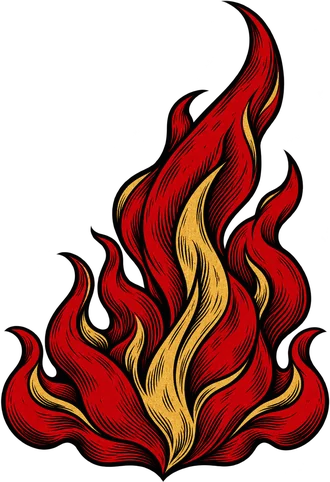
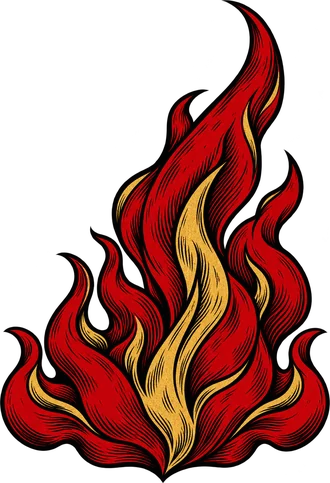
Infernal aces trimmed to their artwork and fitted to fill the card

diff --git a/index.html b/index.html
@@ -16,9 +16,9 @@
   <meta property="og:image" content="share.jpg">
   <meta name="twitter:card" content="summary_large_image">
   <link rel="preload" href="share.jpg" as="image" fetchpriority="low">
-  <link rel="stylesheet" href="./gw.css?v=161">
-  <link rel="stylesheet" href="./oh.css?v=161">
-  <link rel="stylesheet" href="./bv-more.css?v=161">
+  <link rel="stylesheet" href="./gw.css?v=162">
+  <link rel="stylesheet" href="./oh.css?v=162">
+  <link rel="stylesheet" href="./bv-more.css?v=162">
 </head>
 <body>
 <!-- The Infernal suits (Look & feel): drawn with <use href="#s-flame"> etc. -->
@@ -111,7 +111,7 @@
 
 <!-- SPLASH -->
 <div id="splash" role="button" tabindex="0" aria-label="Click to start">
-  <img src="logo-ohhell.webp?v=161" alt="Oh Hell! Extended" class="splash-title">
+  <img src="logo-ohhell.webp?v=162" alt="Oh Hell! Extended" class="splash-title">
   <div class="logo-subtitle splash-subtitle">Oh Hell! with a trick up its sleeve</div>
   <img src="bugvictim.svg" alt="BugVictim" class="splash-logo">
   <div class="splash-credit">© BugVictim 2026</div>
@@ -174,7 +174,7 @@
 
     <div class="start-panel-header">
       <div class="start-header">
-        <img src="logo-ohhell.webp?v=161" alt="Oh Hell! Extended" class="start-title-img">
+        <img src="logo-ohhell.webp?v=162" alt="Oh Hell! Extended" class="start-title-img">
       </div>
 
       <div class="start-logo-row start-credit-line">© BugVictim 2026</div>
@@ -451,12 +451,12 @@
   </div>
 </div>
 
-  <script src="./oh-core.js?v=161"></script>
-  <script src="./oh-tutorial.js?v=161"></script>
-  <script src="./oh-ai.js?v=161"></script>
-  <script src="./bv-more.js?v=161"></script>
-  <script src="./oh-souls.js?v=161"></script>
-  <script src="./oh-app.js?v=161"></script>
+  <script src="./oh-core.js?v=162"></script>
+  <script src="./oh-tutorial.js?v=162"></script>
+  <script src="./oh-ai.js?v=162"></script>
+  <script src="./bv-more.js?v=162"></script>
+  <script src="./oh-souls.js?v=162"></script>
+  <script src="./oh-app.js?v=162"></script>
   <script>
     BVMore.init({ key: "oh-hell-extended", title: "Oh Hell! Extended", others: ["drakeharbour", "german-whist", "artifact"],
       shareText: "Bid your tricks, then win exactly that many. Play Oh Hell! Extended.",

diff --git a/oh.css b/oh.css
@@ -1735,5 +1735,7 @@ body.suits-infernal .card:not(.back) .corner { text-shadow: 0 0 2px #f1dcae, 0 0
 .card.inf-court-card .corner.sp-letter { display: flex; flex-direction: column; font-family: Georgia, "Times New Roman", serif; font-weight: 700; }
 .card.inf-court-card .inf-sp-glyph { z-index: 2; width: 26cqw; top: 2cqw; left: 2cqw; filter: drop-shadow(0 0 2px #f1dcae) drop-shadow(0 0 3px #f1dcae); }
 /* Infernal aces: the woodcut centred in its panel; the pentagram sits a little smaller, as drawn */
-.card.inf-ace .inf-court img { right: auto; left: 50%; transform: translateX(-50%); }
-.card.inf-ace-pentagrams .inf-court img { top: 9%; height: 84%; }
+/* the whole woodcut inside the panel, as large as fits, centred, clear of the frame line */
+.card.inf-ace .inf-court img { left: 9%; top: 3%; width: 88%; height: 94%; object-fit: contain; transform: none; }   /* a little right of centre, clear of the index */
+.card.inf-ace-pentagrams .inf-court img { left: 4%; width: 92%; top: 20%; height: 76%; }   /* round: full width, below the index */
+.card.inf-ace-flames .inf-court img { left: 6%; width: 92%; top: 2%; height: 96%; }
